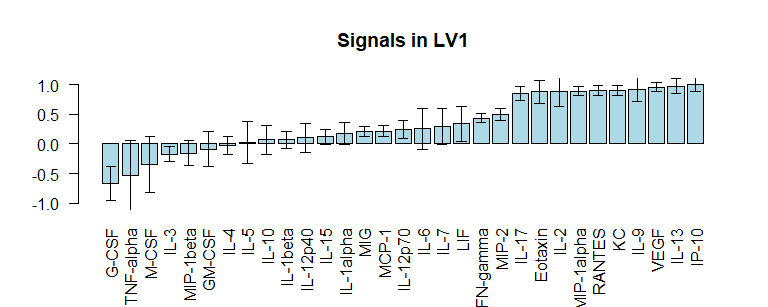
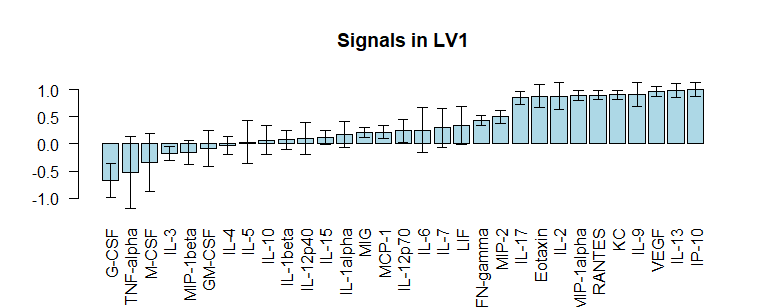
Fixed panel gridlines eclispsing panel border

diff --git a/README.md b/README.md
@@ -109,8 +109,8 @@ PLSR = ropls::opls(cytokines,
 #> PLS
 #> 8 samples x 31 variables and 1 response
 #> standard scaling of predictors and response(s)
-#>       R2X(cum) R2Y(cum) Q2(cum) RMSEE pre ort pR2Y pQ2
-#> Total    0.705    0.889   0.628 0.114   2   0 0.25 0.1
+#>       R2X(cum) R2Y(cum) Q2(cum) RMSEE pre ort pR2Y  pQ2
+#> Total    0.705    0.889   0.628 0.114   2   0 0.25 0.05
 ```
 
 ![](tools/README-Run%20PLSR-1.png)
@@ -199,8 +199,8 @@ PLSR_LOOCV = opls_LOOCV(cytokines,
 #> PLS
 #> 8 samples x 31 variables and 1 response
 #> standard scaling of predictors and response(s)
-#>       R2X(cum) R2Y(cum) Q2(cum) RMSEE pre ort pR2Y pQ2
-#> Total    0.705    0.889   0.628 0.114   2   0  0.3 0.1
+#>       R2X(cum) R2Y(cum) Q2(cum) RMSEE pre ort pR2Y  pQ2
+#> Total    0.705    0.889   0.628 0.114   2   0  0.1 0.15
 ```
 
 ![](tools/README-PLSR%20with%20LOOCV-1.png)
@@ -210,7 +210,7 @@ PLSR_LOOCV_rot30 = rotate_opls_LOOCV(PLSR_LOOCV,degrees=30)
 loadings_chart_sd(loadings=PLSR_LOOCV_rot30$P1, 
                   sd = PLSR_LOOCV_rot30$sd_P1_LOOCV,
                   component_str = "LV1",
-                  lim = 1.1) # set a higher axis limit to see full error bars
+                  lim = 1.2) # set a higher axis limit to see full error bars
 ```
 
 ![](tools/README-PLSR%20LOOCV%20Loadings-1.png)
